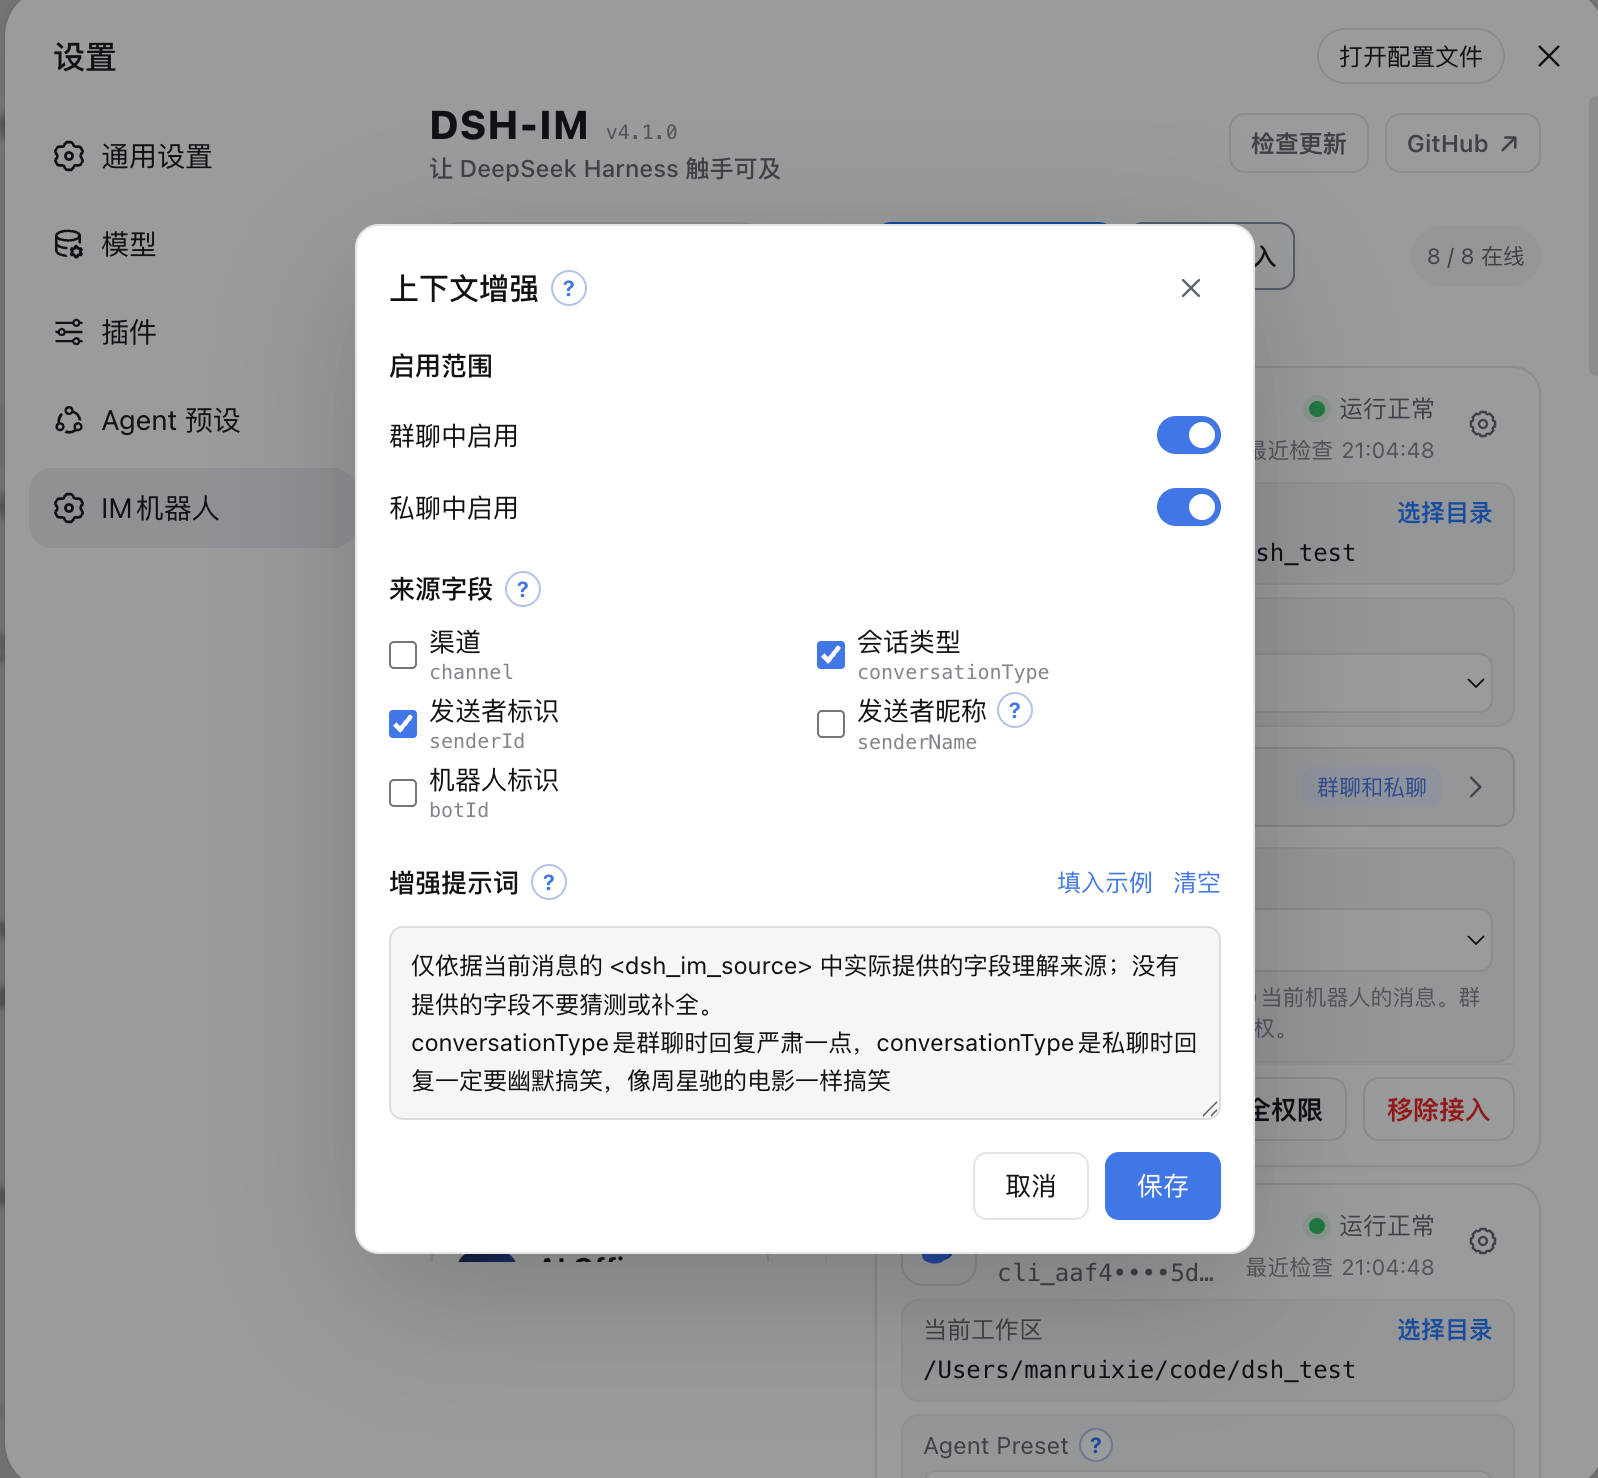
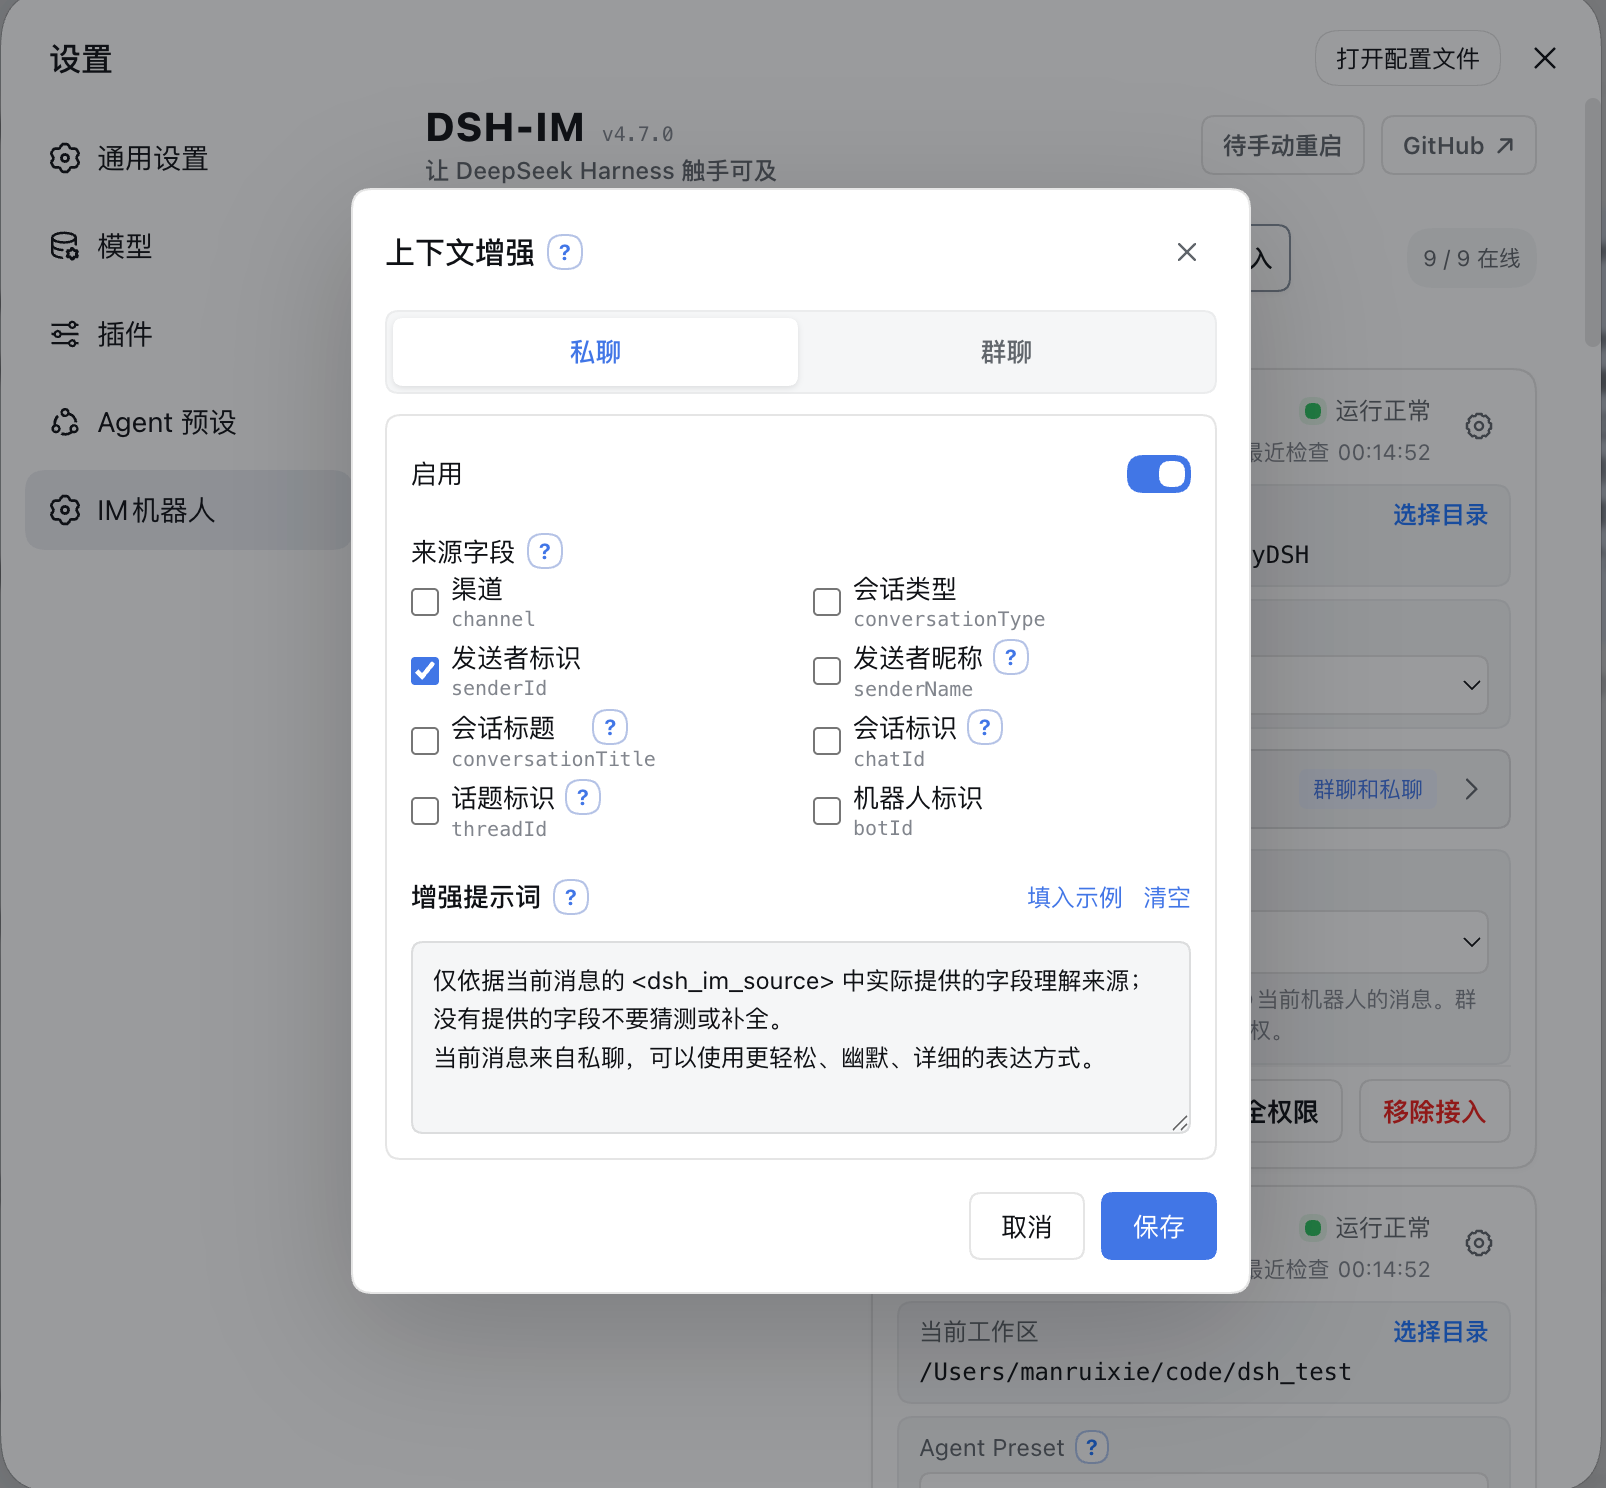
update docs

diff --git a/README.en.md b/README.en.md
@@ -82,13 +82,7 @@ After the model calls the file-return tool, the plugin hands the specified file 
 
 ## AI Office Connector
 
-The **AI Office** page lets the local Harness connect outward to a public Office. The machine needs no public IP, forwarded port, or WebSocket server. The Device Token is written only to the Harness credential provider; the ordinary config file contains only the device ID, Office origin, workspace aliases, and instruction-preset aliases. Office selects aliases and never receives local absolute paths.
-
-The current protocol is `office-harness.v1`. The connector authenticates and advertises capabilities with `POST /api/harness/connector/heartbeat`, then opens the downstream event plane with `GET /api/harness/connector/stream` over SSE. The settings page derives every fixed hook from the Office Base URL and reconnects with backoff after a disconnect.
-
-A `job.available` event makes the local connector fetch the payload, validate Workspace/Preset aliases, claim a 90-second lease, and renew it every 30 seconds. It creates an isolated Harness Session, reports safe status/tool/text progress, and writes a terminal result exactly once. Tool approvals and follow-up questions surface in Office; approve, reject, and text answers return over SSE to the original Session. Heartbeats and leases recover from dropped connections.
-
-A successful heartbeat response must be JSON: `{"ok":true,"protocolVersion":"office-harness.v1"}`. This makes a successful connection test proof of a compatible Office Connector instead of any URL that happens to return 200.
+[Read the AI Office Connector guide](docs/AI-Office-Connector.en.md)
 
 ## Installation
 

diff --git a/README.md b/README.md
@@ -85,13 +85,7 @@ Connect IM bots to DeepSeek Harness by scanning a QR code, using an App Manifest
 
 ## AI Office Connector
 
-「AI Office」页让本机 Harness 主动连接公网 Office，本机无需公网 IP、端口转发或 WebSocket 服务。Device Token 只写入 Harness 凭据存储；普通配置文件仅保存设备 ID、Office Origin、工作区 alias 和 Instruction Preset alias。Office 只能选择 alias，不会收到本机绝对路径。
-
-当前协议版本为 `office-harness.v1`。连接器使用 `POST /api/harness/connector/heartbeat` 完成鉴权和能力握手，再以 `GET /api/harness/connector/stream` 建立 SSE 下行；设置页会从 Office Base URL 自动展示全部固定 Hook，并在断线后按退避策略自动重连。
-
-Office 的 `job.available` 会触发本机拉取任务、校验 Workspace/Preset alias、领取 90 秒租约并每 30 秒续租。连接器创建独立 Harness Session，把状态、工具名和增量文字安全回传 Office，终态只允许写入一次。Harness 发起的工具审批或补充问题会进入 Office 人工面板；批准、拒绝或文字答案再经 SSE 回到原 Session，断线时由租约与 Heartbeat 恢复。
-
-Heartbeat 成功响应必须是 JSON：`{"ok":true,"protocolVersion":"office-harness.v1"}`。这使「连接测试通过」代表命中了兼容的 Office Connector，而不只是某个碰巧返回 200 的网址。
+[查看 AI Office Connector 说明](docs/AI-Office-Connector.md)
 
 ## 安装
 
